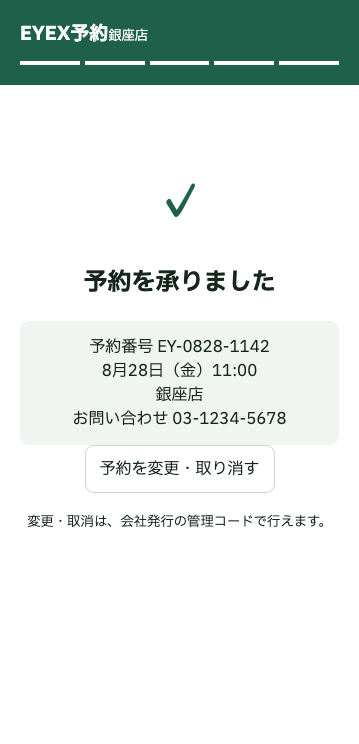
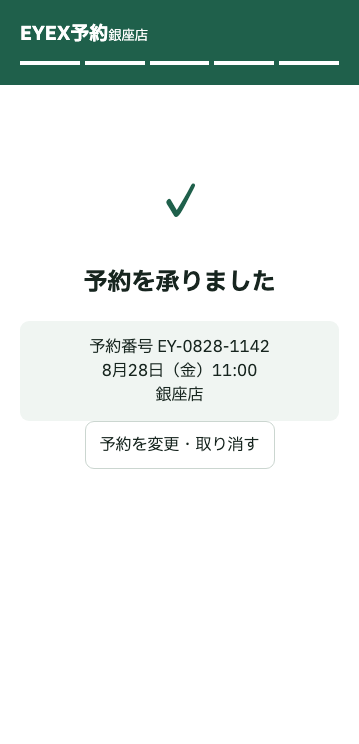
fix: trim the completion screen to the mock, and record the one omission
- Web 予約の完了画面から店舗の電話番号と「変更・取消は、会社発行の管理コードで
  行えます。」を外した。AC-EYEX-94 が連絡先を求めるのは本人確認に失敗した面で
  あって完了の面ではなく、変更・取消の手順はすぐ下のボタンが示している。同じ
  ことを文でも言うと押しどころが埋もれる（WEB-COMPLETE 4.69% → 0.00%）。
- `WEB-UNKNOWN` の照会番号を出さない判断を REBUILD.md の逸脱 5 に書いた。この
  番号は送信に使った冪等キーそのもので、画面に出すと居合わせた他人が同じ鍵で
  成立状況を引ける。出すなら照会専用の番号を契約に足す必要がある（ルール 10）。

diff --git a/services/glasses_management/src/web/PublicBooking.test.tsx b/services/glasses_management/src/web/PublicBooking.test.tsx
@@ -110,6 +110,15 @@ test('starts the approved public flow by selecting a published store and its pur
   fireEvent.click(screen.getByRole('button', { name: 'この内容で予約する' }))
   expect(await screen.findByRole('heading', { name: '予約を承りました' })).toBeInTheDocument()
   expect(await screen.findByText(/EY-0001/)).toBeInTheDocument()
+  /*
+   * 承認済みモック `WEB-COMPLETE` の完了画面は、予約番号・日時・店舗名の 3 行と
+   * 「予約を変更・取り消す」だけ。店舗の電話番号は AC-EYEX-94 が求める面
+   * （本人確認に失敗したとき）のものであって、完了の面のものではない。変更・
+   * 取消の手順もすぐ上のボタンが示しており、同じことを文でも言うと押しどころが
+   * 埋もれる。
+   */
+  expect(document.body.textContent).not.toContain('お問い合わせ')
+  expect(document.body.textContent).not.toContain('管理コードで行えます')
   fireEvent.click(screen.getByRole('button', { name: '予約を変更・取り消す' }))
   expect(await screen.findByRole('heading', { name: '本人確認コードを入力' })).toBeInTheDocument()
   fireEvent.change(screen.getByLabelText('会社発行の管理コード'), {
@@ -478,3 +487,4 @@ test('日時の工程は生の ISO を出さず、候補を日本語で並べる
   expect(screen.queryByLabelText('ご希望の日')).toBeNull()
   expect(container.textContent).not.toContain('2026-09-01')
 })
+

diff --git a/services/glasses_management/src/web/PublicBooking.tsx b/services/glasses_management/src/web/PublicBooking.tsx
@@ -549,14 +549,16 @@ export function PublicBooking({
             )}
             {draft.date && draft.startTime && japaneseSlotLabel(draft.date, draft.startTime)}
             <br />
+            {/*
+             * 店舗の電話番号はここに出さない。AC-EYEX-94 が連絡先を求めるのは
+             * 本人確認に失敗した面であって、完了の面ではない。変更・取消の
+             * 手順も、すぐ下のボタンが示している——同じことを文でも言うと
+             * 押しどころが埋もれる（承認済みモック `WEB-COMPLETE` も 3 行と
+             * 1 つの操作だけである）。
+             */}
             {detail.name}
-            <br />
-            お問い合わせ {detail.contactPhone}
           </PhoneSummary>
           <PhoneButton onClick={openManagement}>予約を変更・取り消す</PhoneButton>
-          <p>
-            <small>変更・取消は、会社発行の管理コードで行えます。</small>
-          </p>
         </PhoneBody>
       </PhoneScreen>
     )

diff --git a/docs/frontend/REBUILD.md b/docs/frontend/REBUILD.md
@@ -182,6 +182,15 @@ pnpm --filter @app/glasses_management exec vite --port 5199 --strictPort
 欄を落とすには認証の設計そのものを変えることになるので、モックとの差は
 ここに残す。バー・幕・板の形はモックどおり（幕もモーダルも重ねない）。
 
+### 5. `WEB-UNKNOWN` の照会番号は出さない（モックにはある）
+
+モックの「予約結果を確認しています」には `照会番号 CHECK-6F82` が添えてある。
+実装ではこの番号＝送信に使った冪等キーそのものなので、画面に出すと、居合わせた
+他人が同じ鍵で成立状況を引けてしまう。顧客が控えて使う先も無い。
+
+出すなら冪等キーとは別の、照会専用の番号を契約に足す必要がある（ルール 10 の
+人間承認事項）。`WEB-UNKNOWN` に残る 6% 台はこの 1 ブロックぶんである。
+
 ### 4. モックのバーのタブは左サイドバーの節になる
 
 `SETTINGS-RESULT` のモックは緑バーに `設定一覧 / 公開結果 / 版履歴` の 3 本を
